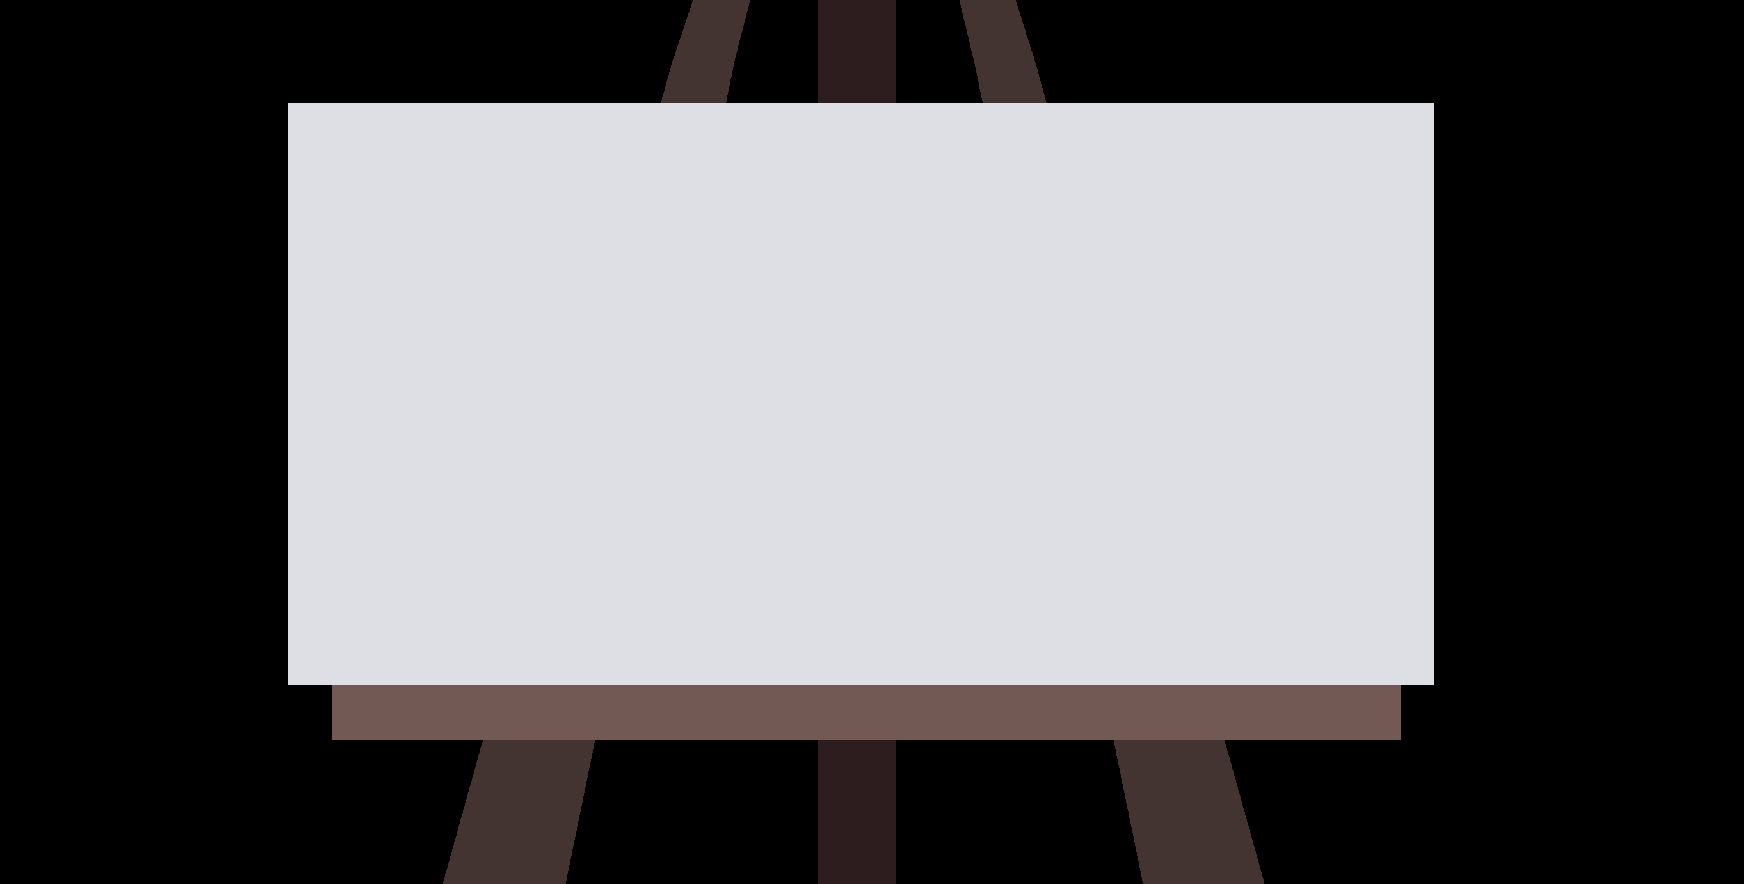
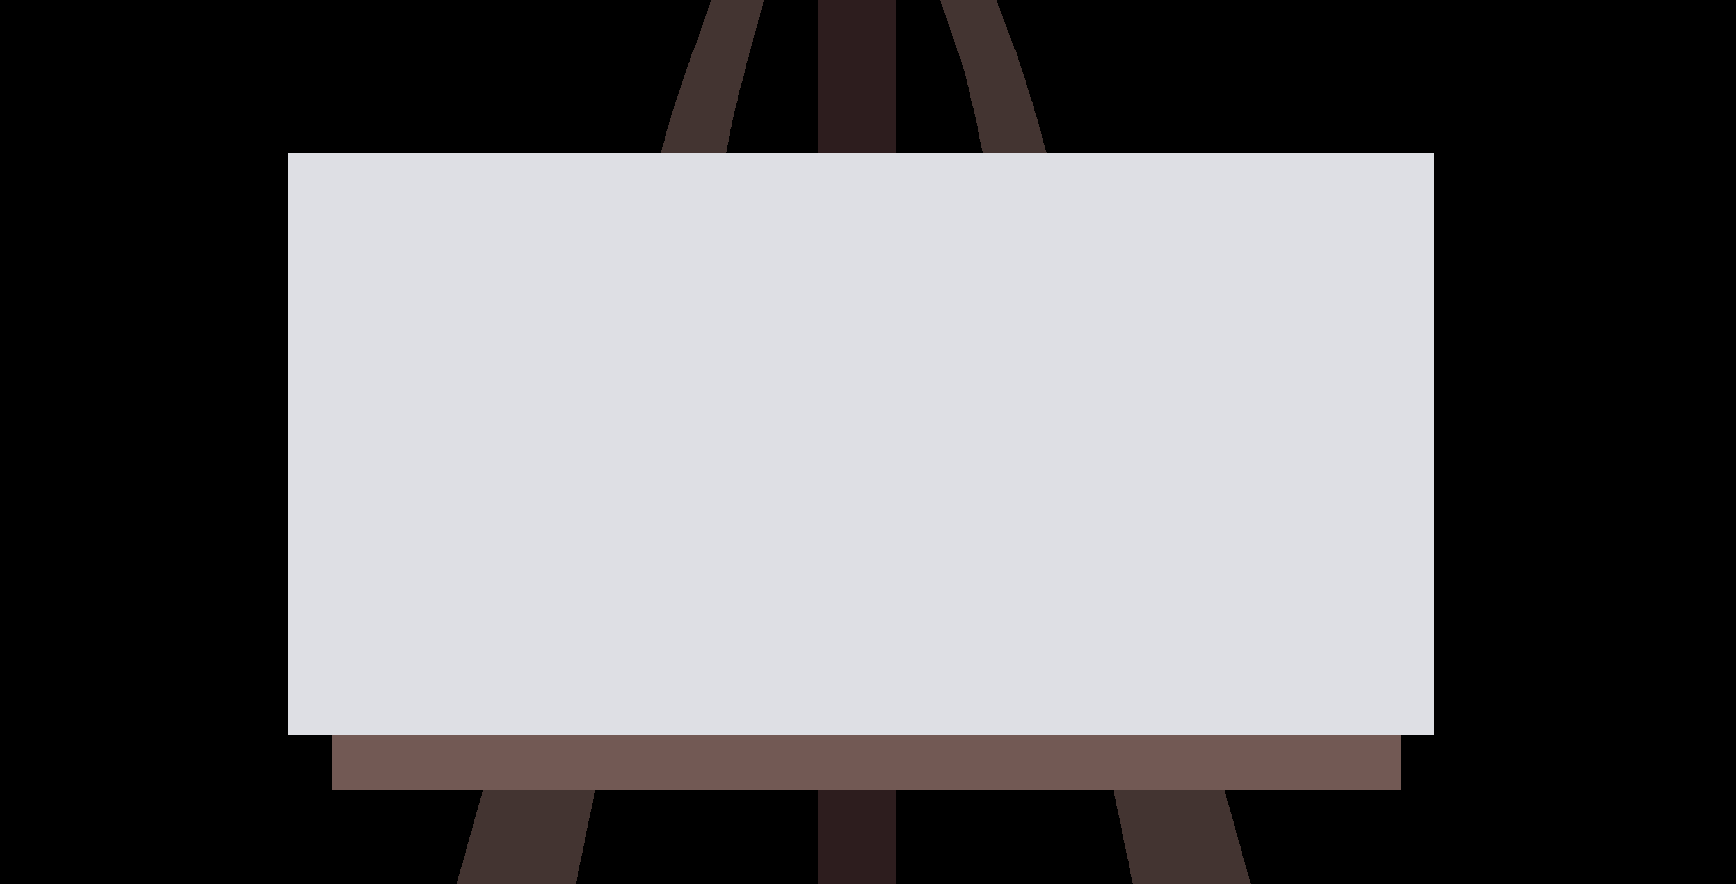
Finished getting started Easel JS tutorial

Changed region(s): [[0.1555, 0.0, 0.8399, 1.0], [0.7154, 0.9468, 0.7465, 1.0]]

diff --git a/Getting-Started/EaselJS/index.html b/Getting-Started/EaselJS/index.html
@@ -11,11 +11,16 @@
  -->
 <html >
     <head>
-        <meta charset="utf-8">
+        
         <title>EaselJS</title>
         <meta name="description" content="">
 	<link href="main.css" 
 		rel="stylesheet">
+		
+		  <meta charset="utf-8">
+  <meta name="viewport" content="width=device-width, initial-scale=1">
+  <script src="https://ajax.googleapis.com/ajax/libs/jquery/3.3.1/jquery.min.js"></script>
+  <script src="https://maxcdn.bootstrapcdn.com/bootstrap/3.3.7/js/bootstrap.min.js"></script>
 <!-- Bootstrap -->
     <!--
 	<link href="https://maxcdn.bootstrapcdn.com/bootstrap/4.0.0/css/bootstrap.min.css" 
@@ -24,16 +29,40 @@
 		  crossorigin="anonymous">
 	-->
 	<!-- Bootswatch -->
+<link href="https://maxcdn.bootstrapcdn.com/bootswatch/4.0.0/pulse/bootstrap.min.css" 
+		rel="stylesheet"
+		integrity="sha384-s4gnxO2aVdL1Yod+BZDOlk2050aVqe/OPfWcWp9EeSihsgc6exzYVQiPoiOfr3Qp" 
+		crossorigin="anonymous">
 
 		<!-- Include the EaselJS libraries in your project by linking to the CreateJS CDN. -->
 		<script src="https://code.createjs.com/easeljs-0.8.2.min.js"></script>
 				<script src="main.js"></script>
     </head>
 	<body onload="init();">
+
+	<div class="row">
+	  <div class="col-sm-4 knockout">EaselJS</div>
+	  <div class="col-sm-4" id="demo">
+	     For more information on EaselJS visit 
+		 <a href="https://createjs.com/easeljs">createjs.com</a>
+	    <img  id="logo" src="easelJsLogo.png"/>
+	  </div>
+	</div>
+	
+	
+	
+	
         <!-- site / application content here 
 		     canvas element within your body tag, 
 		     set to body to call a function when it has loaded.-->	
-		  <canvas id="demoCanvas" width="500" height="300"></canvas>
+<div class="row">
+  <div class="col-sm-4"></div>
+  <div class="col-sm-4">
+	<canvas id="demoCanvas" width="500" height="500"></canvas>
+  </div>
+  <div class="col-sm-4"></div>
+</div>
+		  
 
 
 

diff --git a/Getting-Started/EaselJS/main.js b/Getting-Started/EaselJS/main.js
@@ -12,10 +12,52 @@
 	// Then use shape's graphics API to give it color and bounds. 
 	// Position it on the canvas with x and y coordinates, and add it to the stage.
 	var circle = new createjs.Shape();
-	circle.graphics.beginFill("DeepSkyBlue").drawCircle(0, 0, 50);
+	//Face circle
+	circle.graphics.beginFill("Pink").drawCircle(100, 100, 200);
 	circle.x = 100;
 	circle.y = 100;
 	stage.addChild(circle);
+	//Color in some
+	circle.graphics.beginFill("RGB(222,223,228)").drawCircle(100, 100, 190);
+	circle.x = 100;
+	circle.y = 100;
+	stage.addChild(circle);
+	//Smile
+	circle.graphics.beginFill("White").drawCircle(100, 100, 100);
+	circle.x = 100;
+	circle.y = 100;
+	stage.addChild(circle);
+	//Cover some of circle to a make smile
+	circle.graphics.beginFill("RGB(222,223,228)").drawCircle(100, 80, 100);
+	circle.x = 100;
+	circle.y = 100;
+	stage.addChild(circle);
+	//left eye 
+	circle.graphics.beginFill("Brown").drawCircle(0, 0, 50);
+	circle.x = 100;
+	circle.y = 100;
+	stage.addChild(circle);
+	//left cover
+	circle.graphics.beginFill("RGB(222,223,228)").drawCircle(0, 10, 50);
+	circle.x = 100;
+	circle.y = 100;
+	stage.addChild(circle);
+	//Right eye 
+	circle.graphics.beginFill("Brown").drawCircle(200, 0, 50);
+	circle.x = 100;
+	circle.y = 100;
+	stage.addChild(circle);
+	//Right eye cover
+	circle.graphics.beginFill("RGB(222,223,228)").drawCircle(200, 10, 50);
+	circle.x = 100;
+	circle.y = 100;
+	stage.addChild(circle);
+	//nose
+	circle.graphics.beginFill("Pink").drawCircle(100, 50, 10);
+	circle.x = 100;
+	circle.y = 100;
+	stage.addChild(circle);
+	//nose
 	//Finally, we need to update our stage to display the shape we just added.
 	stage.update();
   }

diff --git a/Getting-Started/EaselJS/main.css b/Getting-Started/EaselJS/main.css
@@ -3,4 +3,40 @@ body {
    background-color: #cccccc;
    background-size:cover;
    background-repeat: no-repeat;
+   width:90%;
+}
+
+/*
+	CSS Heading styling
+	http://mksht.crisnoble.com
+*/
+
+.knockout {
+/*https://www.planetdeadly.com/wp-content/uploads/licorne-nuclear-test-720x495.jpg*/
+  background: url(http://cdn.spacetelescope.org/archives/images/screen/heic1509c.jpg) -80px -80px;
+  color: red;
+  -webkit-text-fill-color: transparent;
+  -webkit-background-clip: text;
+  font-weight: bold;
+  font-size: 100px;
+  font-family: arial, helvetica;
+  width: 600px;
+  margin: 50px auto;
+  text-align: right;
+  margin-top: 150px;
+  margin-bottom: 10px;
+}
+
+#logo{
+
+	max-width: 20%;	
+
+}
+
+#demo{
+	margin-top: 170px;
+    margin-bottom: 10px;
+    margin-right: 50px;
+
+	font-size: 2em;
 }
